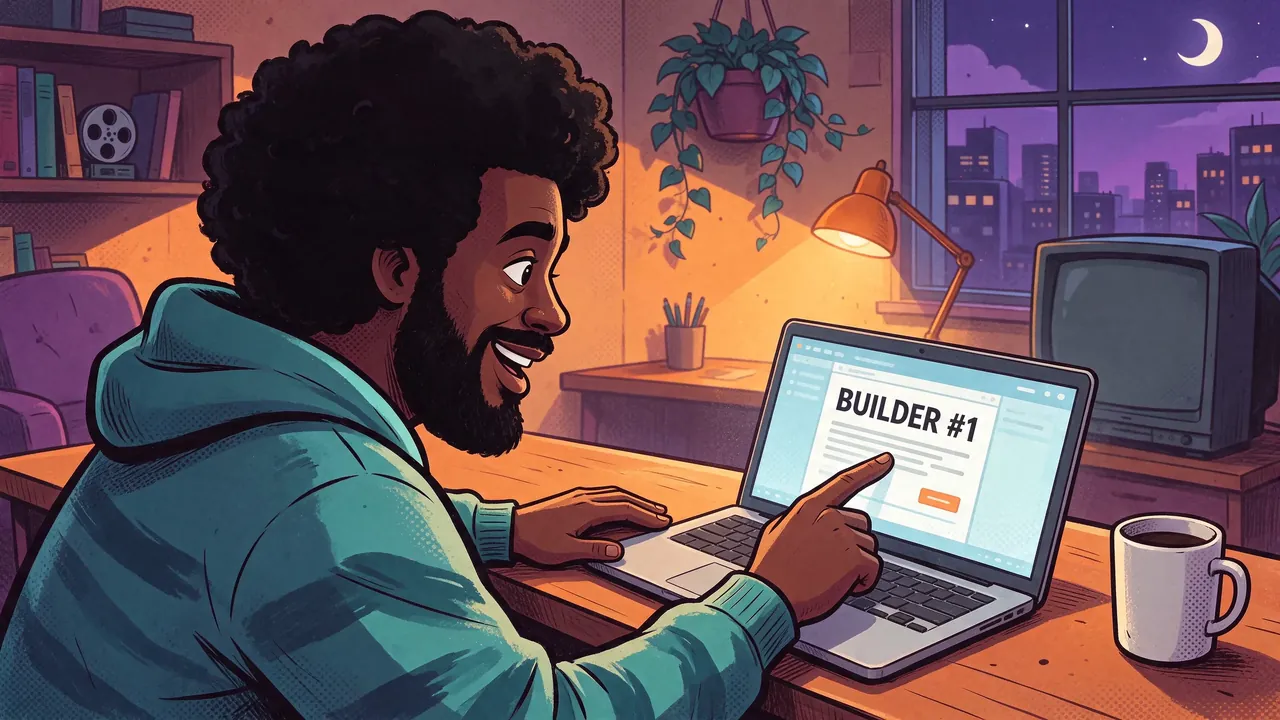
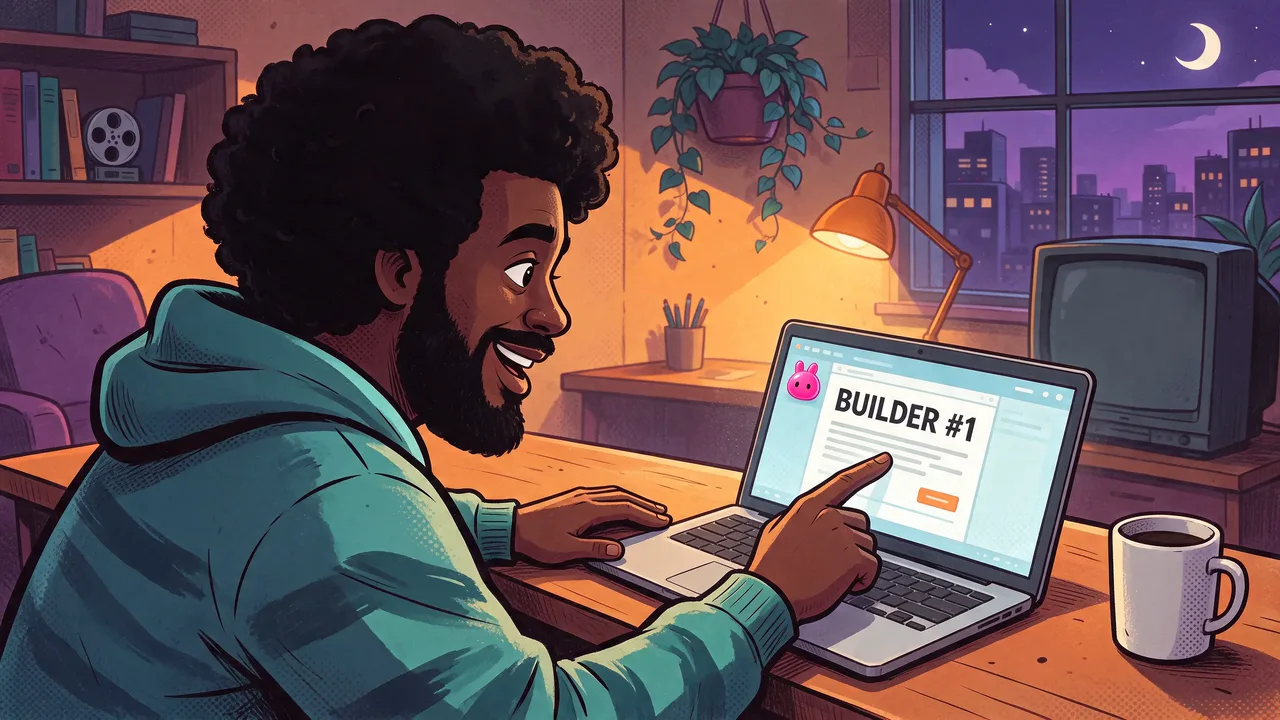
Call the assistant Pepper and bring dinner to the door in the intro
The assistant is Pepper, a round pink character with bunny ears, in the
intro and in the email scene's chat lines. The two studio pictures now
show Pepper on the laptop.

After the telly goes off the doorbell rings. At the door Augustus asks
Pepper for a job over his shoulder, Pepper answers "Yes, sir", and the
delivery rider has a question about that. Two new stills carry the
exchange before Pepper finds the job.

Claude-Session: https://claude.ai/code/session_01TySN1agXB7QTFVgw7YjYr5

diff --git a/src/intro.js b/src/intro.js
@@ -1,5 +1,5 @@
-// The opening of HIRE.EXE: three channels on an old telly, the telly goes off, and a short
-// word with the assistant finds the job. The title screen lands when this ends.
+// The opening of HIRE.EXE: three channels on an old telly, the telly goes off, dinner arrives
+// at the door, and Pepper the assistant finds the job. The title screen lands when this ends.
 // Every beat is a painted still. A beat may also name a short silent clip, which plays in
 // place of the still on connections that can afford it; the still stays underneath.
 (function (H) {
@@ -17,10 +17,18 @@
       ['Owner', 'Is it worth anything?'],
       ['Expert', 'Not since about 2023.']]},
     {art: 'studio', lines: [
-      ['Augustus', 'Right. We need a job. We’re too good not to be shipping.'],
-      ['Charlie Dots', 'On it.']]},
+      ['Doorbell', 'Ding dong.'],
+      ['Augustus', 'That’ll be dinner.']]},
+    {art: 'door', lines: [
+      ['Augustus', 'Pepper, we need a job. We’re too good not to be shipping.'],
+      ['Pepper', 'Yes, sir.'],
+      ['Driver', 'Sir? Who’s that?'],
+      ['Augustus', 'That’s Pepper. My AI assistant.']]},
+    {art: 'driver', lines: [
+      ['Driver', 'What are you, a black Tony Stark or something?'],
+      ['Augustus', 'Don’t hate the player. Play the game.']]},
     {art: 'found', lines: [
-      ['Charlie Dots', 'Oh. Found one.'],
+      ['Pepper', 'Oh. Found one.'],
       ['Augustus', 'That’s perfect.']]}
   ];
   // Channels with a clip: five silent seconds that open on the still's own frame.

diff --git a/src/director-scenes.js b/src/director-scenes.js
@@ -38,10 +38,10 @@ const directorScenes = [
     ]
   },
   {
-    title:'The attachment',place:'Back in Augustus’s home studio',cue:'Cut out of the game for the actual email. Charlie Dots appears as a text chat in a neighbouring tab. Its line appears in the dialogue strip. James’s reply is the invitation that motivates the next level.',
+    title:'The attachment',place:'Back in Augustus’s home studio',cue:'Cut out of the game for the actual email. Pepper appears as a text chat in a neighbouring tab. Its line appears in the dialogue strip. James’s reply is the invitation that motivates the next level.',
     shots:[
-      ['p13-draft','The salutation','Augustus|“Hi James” or “Dear James”?','Charlie Dots, in chat|We shipped a game in less time than this greeting.'],
-      ['p14-just-sent','Sent','Augustus|Please find attached.','Charlie Dots, in chat|Strong email. Shy attachment.'],
+      ['p13-draft','The salutation','Augustus|“Hi James” or “Dear James”?','Pepper, in chat|We shipped a game in less time than this greeting.'],
+      ['p14-just-sent','Sent','Augustus|Please find attached.','Pepper, in chat|Strong email. Shy attachment.'],
       ['p15-attachment','Second email','Augustus|And, in a surprise development, my CV.','James, later by email|I played it. Come in on Thursday?']
     ]
   },
